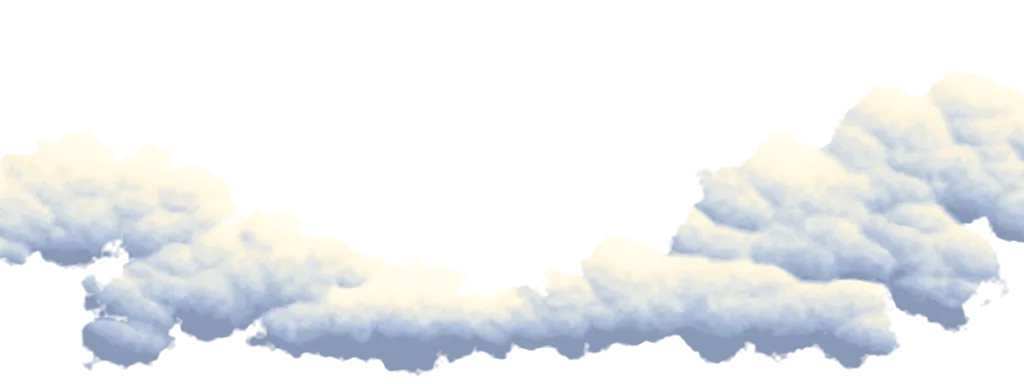
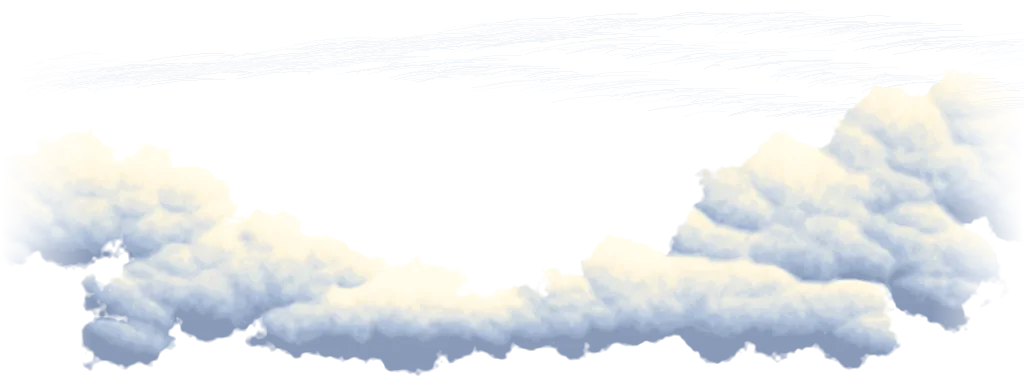
feat(city): tiled roofs, radio spire, darker night sky and denser cloud banks

Changed region(s): [[0.9062, 0.25, 1.0, 0.6562], [0.0, 0.4062, 0.0938, 0.6875], [0.9062, 0.6875, 1.0, 0.8438]]

diff --git a/assets/dream-lantern/scenes/city/paint.py b/assets/dream-lantern/scenes/city/paint.py
@@ -3,7 +3,7 @@ from pathlib import Path
 from random import Random
 
 import numpy as np
-from PIL import Image, ImageDraw, ImageFilter
+from PIL import Image, ImageDraw
 
 
 OUT = Path(__file__).parent
@@ -42,14 +42,27 @@ def clouds():
     fine = wash(w, h, 7) + .5 * wash(w, h, 3)
     val = np.clip(light + fine * .12, 0, 1)
     val = .8 * val + .2 * np.round(val * 7) / 7
-    alpha = np.uint8(255 * np.clip((depth + 2) / 4, 0, 1))
+    ends = np.clip(np.minimum(x, w-1-x)/92, 0, 1)
+    fringe = np.clip((depth + 2) / 4, 0, 1)
+    alpha = np.uint8(255 * fringe * ends)
+    # A second, much higher layer. Drag the grain along the wind in individual strokes.
+    silks = Image.new('RGBA', (w, h))
+    brush = ImageDraw.Draw(silks)
+    for i in range(740):
+        sx = rng.uniform(-100,w); band = rng.choice([1, 2, 3])
+        yy = 28 + band*21 + 24*np.sin(sx/177 + band) + rng.gauss(0, 5)
+        length = rng.uniform(9, 104)
+        points = [(sx+length*k/8, yy - 4*np.sin(k*.3) - length*k/8*.056) for k in range(9)]
+        opacity = int(rng.uniform(9, 38)*max(0, min(1, sx/70, (w-sx)/70)))
+        brush.line(points, fill=(167, 191, 215, opacity), width=1 if i%8 else 2)
     for name, stops in [
         ('day', ['889ab9', 'acbed8', 'dce2e4', 'fff6dd', 'fffcea']),
-        ('night', ['111c38', '182c4b', '2d507a', '5997b4', '9cdde4'])
+        ('night', ['111a36', '142841', '284d70', '5095ac', '8be0dc'])
     ]:
         ramp = np.array([list(bytes.fromhex(s)) for s in stops])
         rgb = np.stack([np.interp(val, np.linspace(0, 1, 5), ramp[:, c]) for c in range(3)], axis=2)
-        Image.fromarray(np.dstack((rgb.astype('uint8'), alpha))).save(OUT / f'cloud-{name}.webp', quality=83)
+        bank = Image.fromarray(np.dstack((rgb.astype('uint8'), alpha)))
+        Image.alpha_composite(silks, bank).save(OUT / f'cloud-{name}.webp', quality=83)
 
 
 def lookout():
